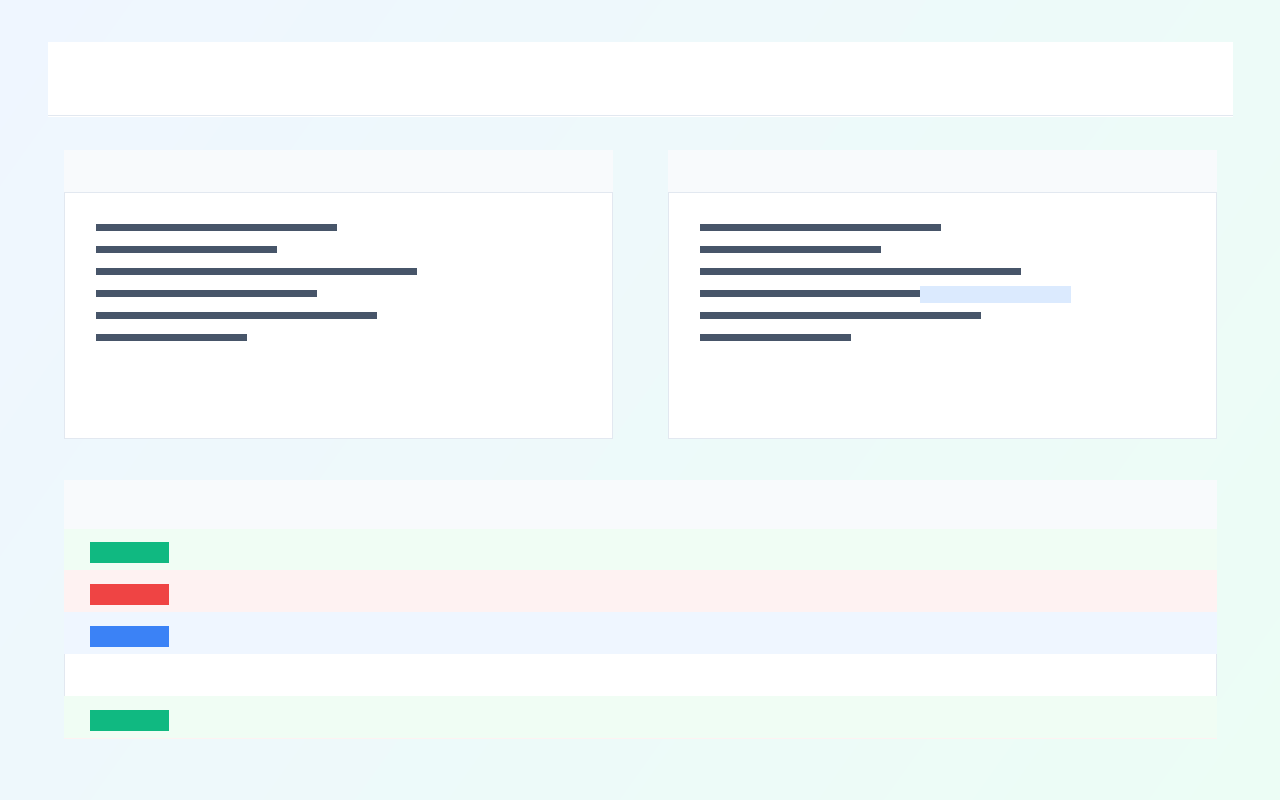
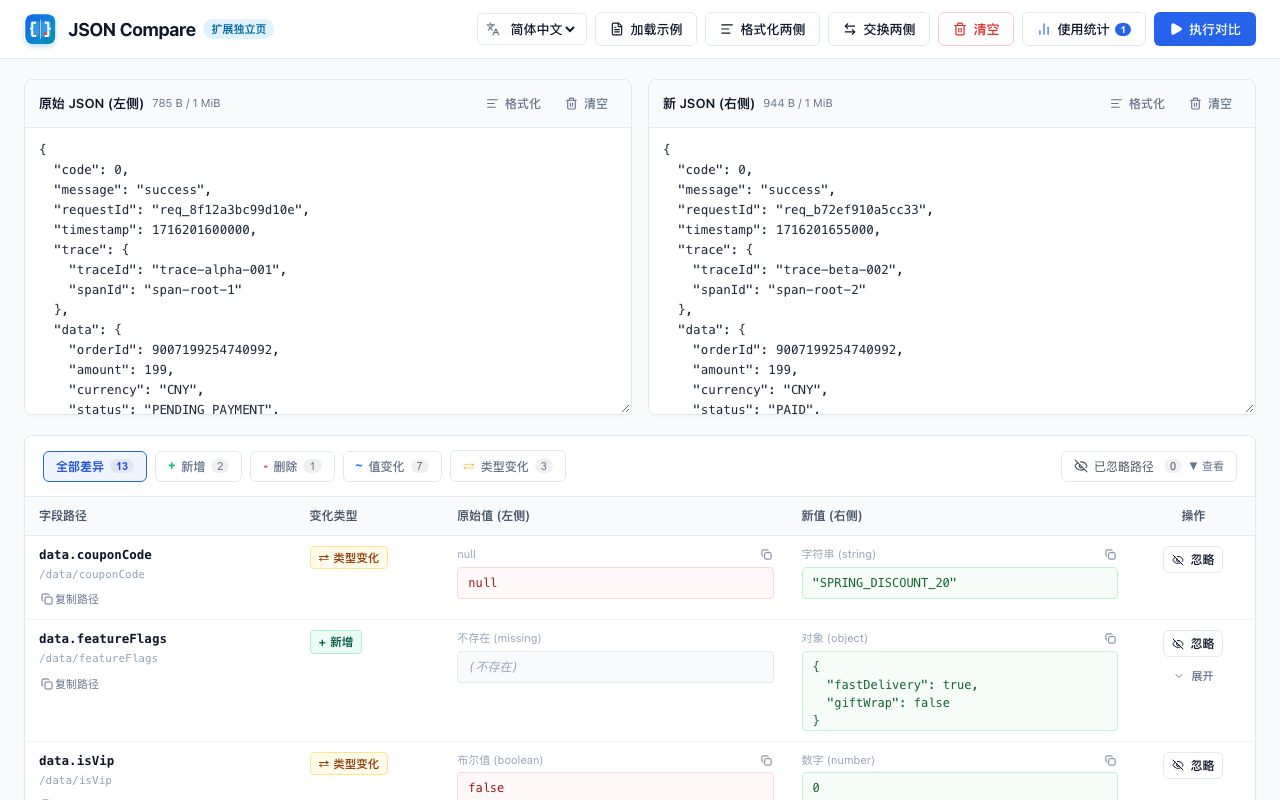
Replace store images with real extension screenshots

diff --git a/scripts/capture-store-screenshots.js b/scripts/capture-store-screenshots.js
@@ -1,0 +1,213 @@
+import { spawn } from 'node:child_process';
+import fs from 'node:fs';
+import path from 'node:path';
+import os from 'node:os';
+
+const chromePath = '/Applications/Google Chrome.app/Contents/MacOS/Google Chrome';
+const remotePort = 9333;
+const appUrl = process.env.APP_URL || 'http://127.0.0.1:5173/';
+const outputDir = path.resolve('store-assets', 'screenshots');
+const userDataDir = fs.mkdtempSync(path.join(os.tmpdir(), 'json-compare-chrome-'));
+
+fs.mkdirSync(outputDir, { recursive: true });
+
+function delay(ms) {
+  return new Promise((resolve) => setTimeout(resolve, ms));
+}
+
+async function waitForJson(url, timeoutMs = 10000) {
+  const start = Date.now();
+  while (Date.now() - start < timeoutMs) {
+    try {
+      const res = await fetch(url);
+      if (res.ok) return await res.json();
+    } catch {
+      // Chrome may still be starting.
+    }
+    await delay(150);
+  }
+  throw new Error(`Timed out waiting for ${url}`);
+}
+
+class CdpClient {
+  constructor(wsUrl) {
+    this.nextId = 1;
+    this.pending = new Map();
+    this.ws = new WebSocket(wsUrl);
+  }
+
+  async open() {
+    await new Promise((resolve, reject) => {
+      this.ws.addEventListener('open', resolve, { once: true });
+      this.ws.addEventListener('error', reject, { once: true });
+    });
+
+    this.ws.addEventListener('message', (event) => {
+      const msg = JSON.parse(event.data);
+      if (msg.id && this.pending.has(msg.id)) {
+        const { resolve, reject } = this.pending.get(msg.id);
+        this.pending.delete(msg.id);
+        if (msg.error) reject(new Error(msg.error.message));
+        else resolve(msg.result);
+      }
+    });
+  }
+
+  send(method, params = {}) {
+    const id = this.nextId++;
+    this.ws.send(JSON.stringify({ id, method, params }));
+    return new Promise((resolve, reject) => {
+      this.pending.set(id, { resolve, reject });
+    });
+  }
+
+  close() {
+    this.ws.close();
+  }
+}
+
+async function createPage() {
+  const target = await fetch(
+    `http://127.0.0.1:${remotePort}/json/new?${encodeURIComponent(appUrl)}`,
+    { method: 'PUT' }
+  ).then((res) => res.json());
+  const client = new CdpClient(target.webSocketDebuggerUrl);
+  await client.open();
+  await client.send('Page.enable');
+  await client.send('Runtime.enable');
+  await client.send('Emulation.setDeviceMetricsOverride', {
+    width: 1280,
+    height: 800,
+    deviceScaleFactor: 1,
+    mobile: false,
+  });
+  await delay(900);
+  return client;
+}
+
+async function evaluate(client, expression) {
+  const result = await client.send('Runtime.evaluate', {
+    expression,
+    awaitPromise: true,
+    returnByValue: true,
+  });
+  if (result.exceptionDetails) {
+    throw new Error(result.exceptionDetails.text || 'Runtime.evaluate failed');
+  }
+  return result.result.value;
+}
+
+async function clickButton(client, labels) {
+  const list = JSON.stringify(labels);
+  await evaluate(client, `
+    (() => {
+      const labels = ${list};
+      const btn = [...document.querySelectorAll('button')]
+        .find((item) => labels.some((label) => item.textContent.includes(label)));
+      if (!btn) throw new Error('Button not found: ' + labels.join(', '));
+      btn.click();
+      return true;
+    })()
+  `);
+  await delay(700);
+}
+
+async function setLocale(client, locale) {
+  await evaluate(client, `
+    (() => {
+      const select = document.querySelector('.language-select');
+      if (!select) throw new Error('Language select not found');
+      select.value = '${locale}';
+      select.dispatchEvent(new Event('change', { bubbles: true }));
+      return true;
+    })()
+  `);
+  await delay(700);
+}
+
+async function loadSample(client) {
+  await clickButton(client, ['加载示例', 'Load sample', 'Beispiel laden', 'Charger exemple', 'Загрузить пример']);
+}
+
+async function capture(client, filename) {
+  await evaluate(client, 'window.scrollTo(0, 0)');
+  await delay(250);
+  const result = await client.send('Page.captureScreenshot', {
+    format: 'png',
+    captureBeyondViewport: false,
+    fromSurface: true,
+  });
+  fs.writeFileSync(path.join(outputDir, filename), Buffer.from(result.data, 'base64'));
+}
+
+async function main() {
+  const chrome = spawn(chromePath, [
+    '--headless=new',
+    '--disable-gpu',
+    '--hide-scrollbars',
+    `--remote-debugging-port=${remotePort}`,
+    `--user-data-dir=${userDataDir}`,
+    '--window-size=1280,800',
+    'about:blank',
+  ], { stdio: 'ignore' });
+
+  try {
+    await waitForJson(`http://127.0.0.1:${remotePort}/json/version`);
+
+    let page = await createPage();
+    await loadSample(page);
+    await capture(page, 'screenshot-1-structured-compare.png');
+    page.close();
+
+    page = await createPage();
+    await setLocale(page, 'en');
+    await loadSample(page);
+    await capture(page, 'screenshot-2-multilingual-interface.png');
+    page.close();
+
+    page = await createPage();
+    await setLocale(page, 'en');
+    await loadSample(page);
+    await evaluate(page, `
+      (() => {
+        const ignore = [...document.querySelectorAll('button')].find((item) => item.textContent.includes('Ignore'));
+        if (!ignore) throw new Error('Ignore button not found');
+        ignore.click();
+        return true;
+      })()
+    `);
+    await delay(800);
+    await evaluate(page, `
+      (() => {
+        const manage = document.querySelector('.ignore-manage-btn');
+        if (!manage) throw new Error('Ignored paths button not found');
+        manage.click();
+        return true;
+      })()
+    `);
+    await delay(700);
+    await capture(page, 'screenshot-3-ignore-noise-fields.png');
+    page.close();
+
+    page = await createPage();
+    await setLocale(page, 'en');
+    await loadSample(page);
+    await clickButton(page, ['Usage stats']);
+    await capture(page, 'screenshot-4-usage-statistics.png');
+    page.close();
+
+    page = await createPage();
+    await setLocale(page, 'ru');
+    await loadSample(page);
+    await capture(page, 'screenshot-5-russian-interface.png');
+    page.close();
+  } finally {
+    chrome.kill('SIGTERM');
+    fs.rmSync(userDataDir, { recursive: true, force: true });
+  }
+}
+
+main().catch((err) => {
+  console.error(err);
+  process.exit(1);
+});

diff --git a/scripts/generate-store-assets.js b/scripts/generate-store-assets.js
@@ -1,6 +1,7 @@
 import fs from 'fs';
 import path from 'path';
 import zlib from 'zlib';
+import { execFileSync } from 'child_process';
 
 function createPng(width, height, drawPixel) {
   const rowSize = 1 + width * 4;
@@ -284,20 +285,7 @@ fs.writeFileSync(
   })
 );
 
-const screenshots = [
-  ['screenshot-1-structured-compare.png', screenshotCompare],
-  ['screenshot-2-multilingual-interface.png', screenshotLanguages],
-  ['screenshot-3-ignore-noise-fields.png', screenshotIgnore],
-  ['screenshot-4-local-privacy.png', screenshotPrivacy],
-  ['screenshot-5-usage-statistics.png', screenshotStats],
-];
-
-for (const [filename, renderer] of screenshots) {
-  console.log(`Generating ${filename} (1280x800)...`);
-  fs.writeFileSync(
-    path.join(screenshotsDir, filename),
-    createPng(1280, 800, renderer)
-  );
-}
+console.log('Capturing real 1280x800 extension screenshots...');
+execFileSync('node', ['scripts/capture-store-screenshots.js'], { stdio: 'inherit' });
 
 console.log('Store assets successfully generated in store-assets/.');

diff --git a/PUBLISHING_GUIDE.md b/PUBLISHING_GUIDE.md
@@ -13,8 +13,8 @@
 | **功能截图 1** | `store-assets/screenshots/screenshot-1-structured-compare.png` | 1280×800 px PNG | 双栏结构化比对与差异高亮 |
 | **功能截图 2** | `store-assets/screenshots/screenshot-2-multilingual-interface.png` | 1280×800 px PNG | 多语言界面切换 |
 | **功能截图 3** | `store-assets/screenshots/screenshot-3-ignore-noise-fields.png` | 1280×800 px PNG | 噪声字段忽略与路径规则 |
-| **功能截图 4** | `store-assets/screenshots/screenshot-4-local-privacy.png` | 1280×800 px PNG | 本地处理与隐私承诺 |
-| **功能截图 5** | `store-assets/screenshots/screenshot-5-usage-statistics.png` | 1280×800 px PNG | 本地使用频次统计 |
+| **功能截图 4** | `store-assets/screenshots/screenshot-4-usage-statistics.png` | 1280×800 px PNG | 本地使用频次统计 |
+| **功能截图 5** | `store-assets/screenshots/screenshot-5-russian-interface.png` | 1280×800 px PNG | 俄语界面示例 |
 | **小型宣传横幅** | `store-assets/promo-small-440x280.png` | 440×280 px PNG | 商店首页推荐卡片（可选上传） |
 | **隐私权政策文档** | `docs/privacy-policy.html` / `docs/PRIVACY_POLICY.md` | HTML / Markdown | 托管在 GitHub Pages 或网站 |
 | **填表文案与理由** | `CHROMEWEBSTORE.md` | Markdown | 复制粘贴到开发者后台各输入框 |
@@ -54,8 +54,8 @@
      - 点击上传 `store-assets/screenshots/screenshot-1-structured-compare.png`
      - 点击上传 `store-assets/screenshots/screenshot-2-multilingual-interface.png`
      - 点击上传 `store-assets/screenshots/screenshot-3-ignore-noise-fields.png`
-     - 点击上传 `store-assets/screenshots/screenshot-4-local-privacy.png`
-     - 点击上传 `store-assets/screenshots/screenshot-5-usage-statistics.png`
+     - 点击上传 `store-assets/screenshots/screenshot-4-usage-statistics.png`
+     - 点击上传 `store-assets/screenshots/screenshot-5-russian-interface.png`
    - **小型宣传图 (可选)**：上传 `store-assets/promo-small-440x280.png`
 3. **分类与类别 (Categorization)**：
    - **类别**：选择 `开发者工具` (Developer Tools)

diff --git a/CHROMEWEBSTORE.md b/CHROMEWEBSTORE.md
@@ -187,4 +187,4 @@ JSON Compare — это расширение для высокопроизвод
   - 128×128 px (`icons/icon-128.png`)
 - **截图 (Screenshots)**：
   - 推荐尺寸：1280×800 或 640×400
-  - 已准备 5 张 1280×800 展示图：结构化对比、多语言界面、忽略路径、本地隐私、使用统计。
+  - 已准备 5 张真实界面 1280×800 截图：结构化对比、多语言界面、忽略路径、使用统计、俄语界面。
